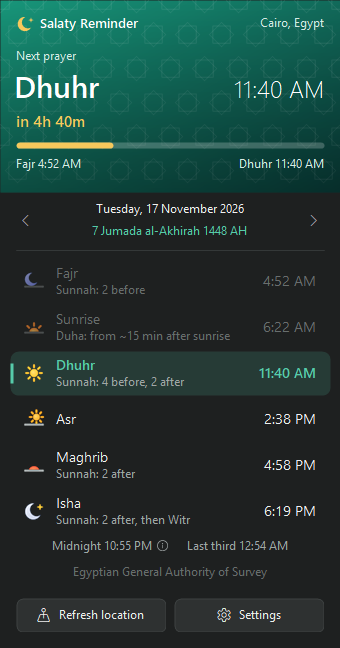
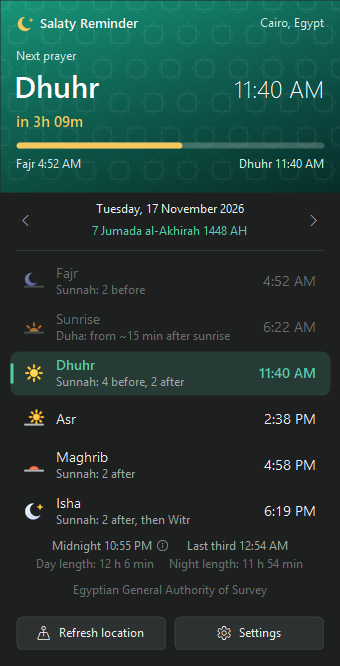
Day and night length on the card

diff --git a/src/SalatyReminder/Localization/Strings.cs b/src/SalatyReminder/Localization/Strings.cs
@@ -110,6 +110,8 @@ public static class L
         ["MidnightInfo"] = ("Islamic midnight: halfway between Maghrib and Fajr, not 12:00. The preferred time for Isha ends here.",
                             "منتصف الليل الشرعي: منتصف ما بين المغرب والفجر، وليس الساعة 12. وعنده ينتهي الوقت المختار للعشاء."),
         ["LastThird"] = ("Last third {0}", "الثلث الأخير {0}"),
+        ["DayLength"] = ("Day length: {0}", "طول النهار: {0}"),
+        ["NightLength"] = ("Night length: {0}", "طول الليل: {0}"),
         ["MiddleOfNight"] = ("Midnight", "منتصف الليل"),
         ["LastThirdOfNight"] = ("Last third of the night", "الثلث الأخير من الليل"),
         ["ImsakLabel"] = ("Imsak", "الإمساك"),
@@ -155,6 +157,9 @@ public static class L
     public static string F(string key, params object[] args) => string.Format(T(key), args);
 
     /// <summary>Keeps numbers and units in left-to-right order inside Arabic text.</summary>
+    /// <summary>A length like "13 h 12 min" or "13 س 12 د".</summary>
+    public static string Span(TimeSpan d) => Ar ? $"{(int)d.TotalHours} س {d.Minutes} د" : $"{(int)d.TotalHours} h {d.Minutes} min";
+
     public static string Ltr(string s) => "\u200E" + s + "\u200E";
 
     /// <summary>"512 B", "1.5 KB", "32.8 MB" in binary units.</summary>

diff --git a/src/SalatyReminder/UI/Card/PrayerCard.cs b/src/SalatyReminder/UI/Card/PrayerCard.cs
@@ -7,7 +7,7 @@ sealed class PrayerCard : Form
 {
     const int W = 340, HeaderH = 192;
     float RowH => app.S.ShowSunnah ? 46 : 38;
-    float NightH => app.S.ShowNightTimes ? 22 : 0;
+    float NightH => app.S.ShowNightTimes ? 40 : 0;
     int H => (int)(258 + RowH * 6 + NightH + 92);
 
     readonly SalatyApp app;
@@ -382,6 +382,11 @@ sealed class PrayerCard : Form
             // One pixel taller than the digits on each side, so its middle row is exactly theirs.
             float inkH = inkBottom - inkTop;
             Art.GlyphFit(g, "", new RectangleF(ix, lineY + inkTop - 1, icon, inkH + 2), tipShown ? accent : dim);
+            // Under it, how long the day (Fajr to Maghrib) and the night (Maghrib to Fajr) are.
+            var (dayLen, nightLen) = app.DayAndNight(day);
+            string len = L.F("DayLength", L.Span(dayLen)) + "     " + L.F("NightLength", L.Span(nightLen));
+            TextRenderer.DrawText(g, len, fTiny, new Rectangle(0, lineY + Px(18), Width, lineH), faint,
+                mf | TextFormatFlags.VerticalCenter | TextFormatFlags.HorizontalCenter | (L.Ar ? TextFormatFlags.RightToLeft : 0));
             y += NightH;
         }
 

diff --git a/src/SalatyReminder/SalatyApp.cs b/src/SalatyReminder/SalatyApp.cs
@@ -191,6 +191,14 @@ sealed class SalatyApp : ApplicationContext
         return NightTimes.Between(day[Prayer.Maghrib], next[Prayer.Fajr]);
     }
 
+    /// <summary>The day from Fajr to Maghrib and the night from Maghrib to the next Fajr, as the fiqh counts them.</summary>
+    public (TimeSpan Day, TimeSpan Night) DayAndNight(DateOnly date)
+    {
+        var day = Today?.Date == date ? Today : TimesFor(date);
+        var next = Today?.Date == date && tomorrow != null ? tomorrow : TimesFor(date.AddDays(1));
+        return (day[Prayer.Maghrib] - day[Prayer.Fajr], next[Prayer.Fajr] - day[Prayer.Maghrib]);
+    }
+
     void UpdateWidget(DateTime now)
     {
         if (Today == null) return;

diff --git a/README.md b/README.md
@@ -32,7 +32,7 @@ reminds you before it, plays the adhan, and speaks both English and Arabic.
 - **Prayer card.** Click the widget for all six times with an icon for each in the colours of the sky, a progress bar from the last prayer to the next, the Gregorian and Hijri dates, and the sunnah rawatib for each prayer.
 - **Any day, not just today.** Step through days with the arrows, mouse wheel or arrow keys, or open the calendar (with Hijri days under each date) and jump anywhere: click its title to pick a month or a year directly.
 - **Islamic occasions.** The calendar marks the Islamic New Year, Ashura, the start of Ramadan, both Eids and the Day of Arafah in gold and the white days in teal, and names every occasion and sunnah fast (Mondays, Thursdays, six of Shawwal, the first ten of Dhu al-Hijjah, the last ten nights) when you point at a day.
-- **Night times.** Midnight and the start of the last third of the night, for Qiyam, under the prayer list. This is the Islamic midnight, halfway from Maghrib to Fajr rather than 12:00; the "i" beside it says so.
+- **Night times.** Midnight and the start of the last third of the night, for Qiyam, under the prayer list. This is the Islamic midnight, halfway from Maghrib to Fajr rather than 12:00; the "i" beside it says so. Below them, the length of the day (Fajr to Maghrib) and of the night (Maghrib to Fajr).
 - **Reminders.** A notification at prayer time, an early heads-up a few minutes before, a flashing widget, and an optional adhan (a built-in recording or your own MP3/WAV/OGG file). Also: Surat Al-Kahf on Friday morning and Jumu'ah 45 minutes ahead, the morning and evening adhkar, and (if you turn it on) a reminder the evening before a sunnah fast.
 - **Automatic location.** Uses Windows location, falls back to your IP address, or pick any city by name.
 - **Accurate times.** Astronomical calculation with nine methods (Egyptian General Authority, Muslim World League, Umm al-Qura, ISNA, Karachi, Kuwait, Qatar, Dubai, Diyanet), Shafi'i or Hanafi Asr, and correct daylight saving changes.
@@ -115,7 +115,7 @@ The exe is self-contained, so you don't need to install .NET. Windows SmartScree
 | Location | Detect automatically, or search for a city; latitude and longitude can be edited |
 | Calculation | Method, Asr (Standard or Hanafi), Hijri date adjustment of up to 2 days |
 | Reminders | Notification at prayer time, early reminder and its minutes, flash the widget, play the adhan and pick its file |
-| Extras | Ramadan mode, occasions and fasting days on the calendar, reminder before a sunnah fast, Friday reminders, adhkar reminders, midnight and the last third of the night |
+| Extras | Ramadan mode, occasions and fasting days on the calendar, reminder before a sunnah fast, Friday reminders, adhkar reminders, midnight, the last third of the night, and the length of the day and night |
 | Updates | Check automatically, install automatically, check now |
 
 Settings are stored in `%APPDATA%\SalatyReminder\settings.json`. There is no tray icon: notifications are Windows toasts, and the app registers its name and icon for them under `HKCU\Software\Classes\AppUserModelId\medovanx.SalatyReminder`.

diff --git a/CHANGELOG.md b/CHANGELOG.md
@@ -3,6 +3,11 @@
 All notable changes to Salaty Reminder are listed here.
 The format follows [Keep a Changelog](https://keepachangelog.com/en/1.1.0/) and versions follow [Semantic Versioning](https://semver.org/).
 
+## [1.6.3] - 2026-11-17
+
+### Added
+- The card shows how long the day and the night are, under the night times. The day runs from Fajr to Maghrib and the night from Maghrib to the next Fajr, the same night that Midnight halves.
+
 ## [1.6.2] - 2026-11-17
 
 ### Changed
@@ -138,6 +143,7 @@ The format follows [Keep a Changelog](https://keepachangelog.com/en/1.1.0/) and 
 - Automatic updates from GitHub Releases with SHA-256 verification.
 - Windows 10 support: the task-button strip is shrunk to make room for the widget.
 
+[1.6.3]: https://github.com/medovanx/salaty-reminder/releases/tag/v1.6.3
 [1.6.2]: https://github.com/medovanx/salaty-reminder/releases/tag/v1.6.2
 [1.6.1]: https://github.com/medovanx/salaty-reminder/releases/tag/v1.6.1
 [1.6.0]: https://github.com/medovanx/salaty-reminder/releases/tag/v1.6.0
